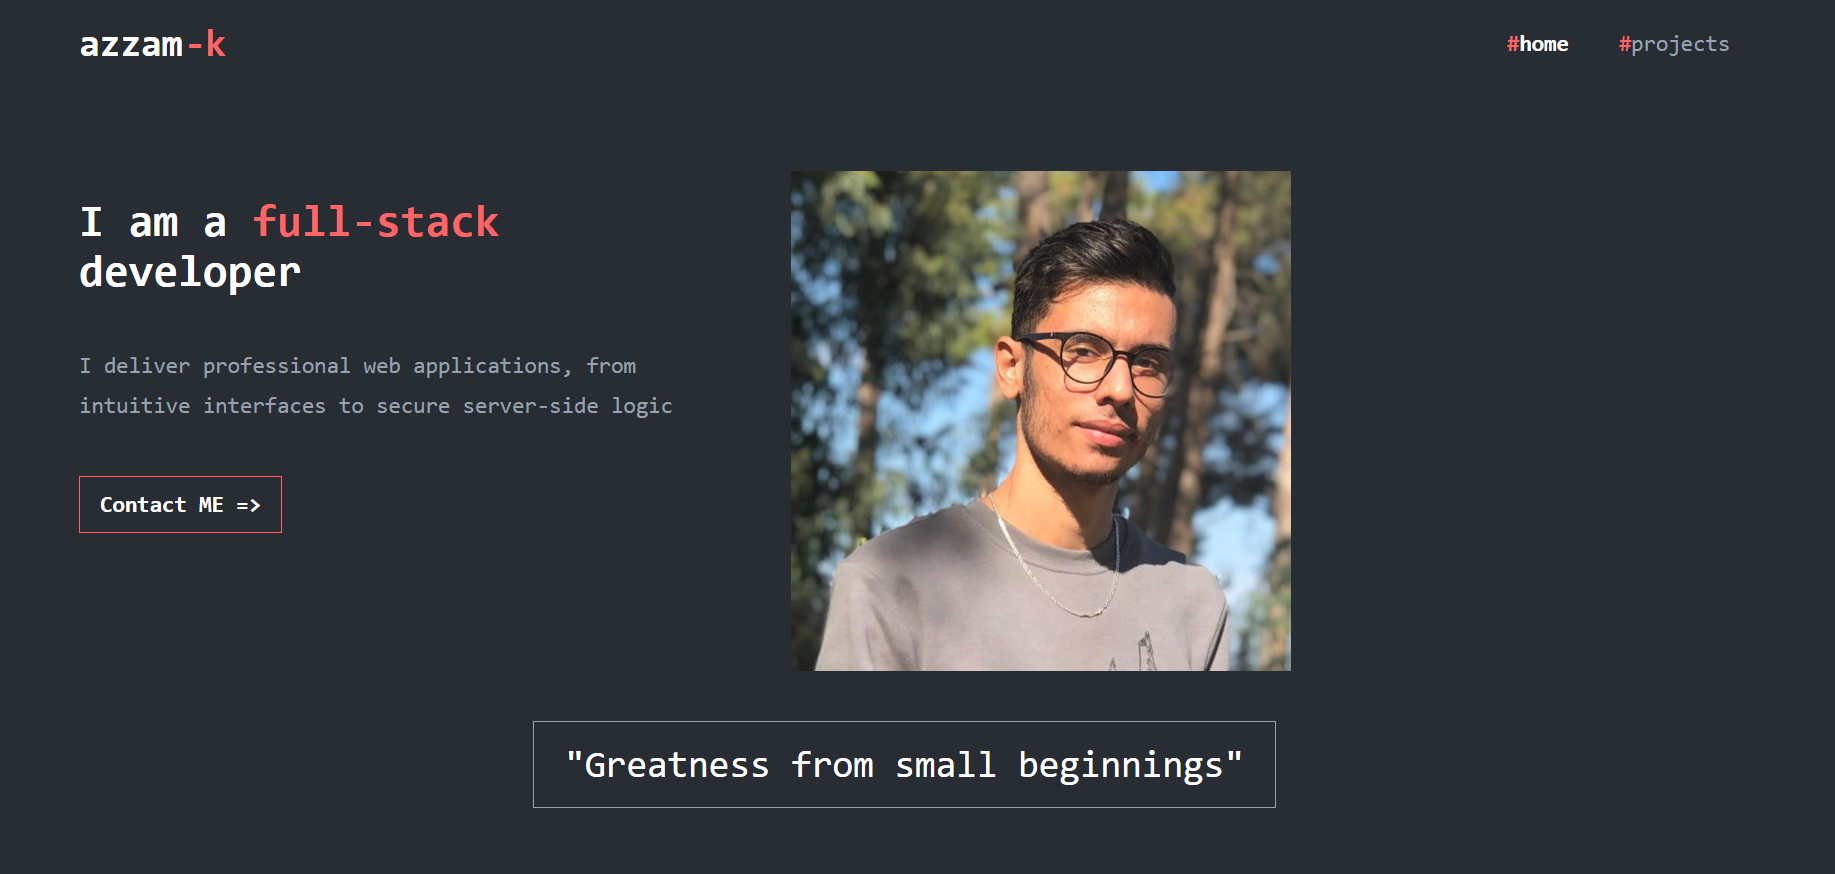
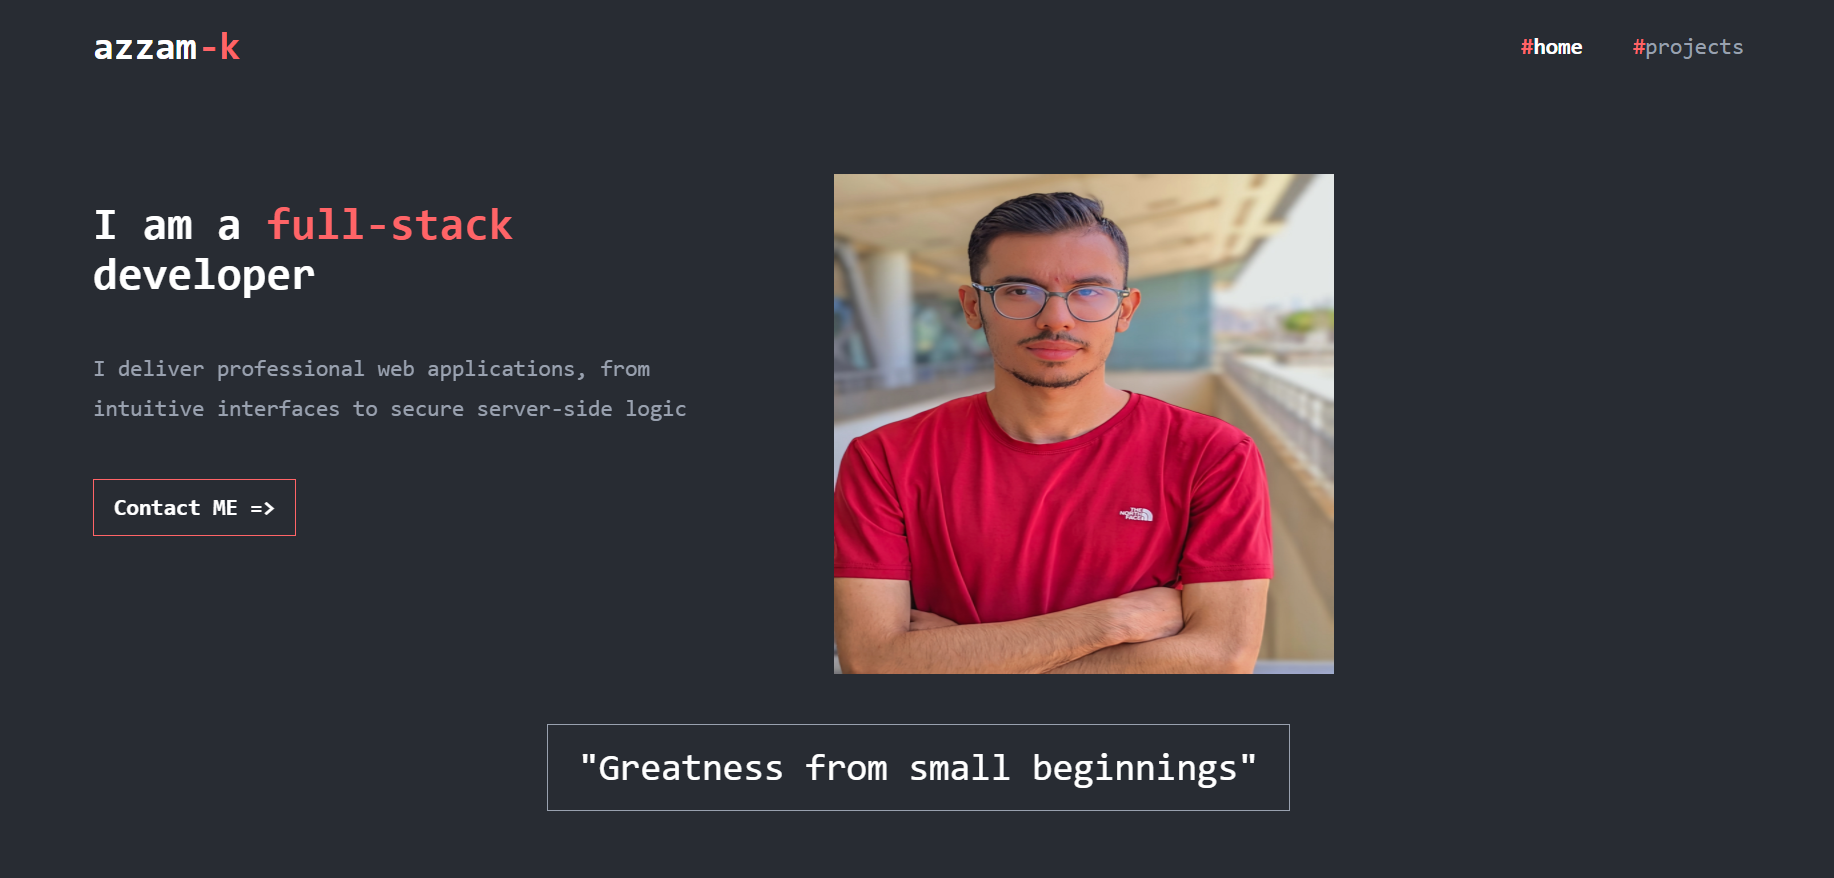
change personal picture

diff --git a/src/sections/HeroSection.jsx b/src/sections/HeroSection.jsx
@@ -1,8 +1,8 @@
-import myImage from '../assets/myImage.jpg'
+import { myImage } from '../assets'
 
 const HeroSection = () => {
   return (
-    <div className='flex flex-col md:flex-row gap-10'>
+    <div className='flex flex-col md:flex-row gap-20'>
       <div className='flex flex-col gap-10 mt-5' data-aos='fade-right'>
         <h1 className='font-bold text-white text-4xl'>
           I am a <span className='text-red-400'>full-stack</span> developer
@@ -18,8 +18,8 @@ const HeroSection = () => {
           Contact ME =&gt;
         </a>
       </div>
-      <div className='w-full h-fit' data-aos='zoom-in'>
-        <img src={myImage} className='object-cover aspect-square h-100' />
+      <div className='w-full h-fit flex items-center' data-aos='zoom-in'>
+        <img src={myImage} className='object-fit h-100 aspect-square' />
       </div>
     </div>
   )

diff --git a/src/assets/index.js b/src/assets/index.js
@@ -7,6 +7,7 @@ import tipCalculator from './tip-calculator.png'
 import ticTacToe from './tic-tac-toe.png'
 import eCommerce from './E-Commerce.png'
 import portfolio from './Portfolio.png'
+import myImage from './me.jpg'
 
 export {
   appleStore,
@@ -18,4 +19,5 @@ export {
   tipCalculator,
   eCommerce,
   portfolio,
+  myImage,
 }
